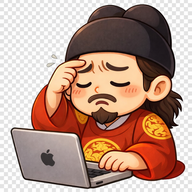
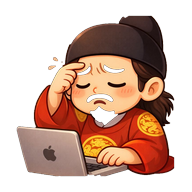
Add files via upload

diff --git a/index.html b/index.html
@@ -638,7 +638,7 @@
 <body>
 
 <div id="loading" class="loading">
-  <img src="king.png" alt="임금님" class="loading-img">
+  <img src="king_transparent.png" alt="임금님" class="loading-img">
   <p id="loadingText" class="loading-text"></p>
 </div>
 
@@ -648,7 +648,7 @@
 <div class="brand">
   <div class="brand-mark" aria-label="대표님 시그니처">
     <span class="mark-bracket">˗ˋˏ</span>
-    <img src="king.png" alt="대표님 캐릭터" class="mark-icon">
+    <img src="king_transparent.png" alt="대표님 캐릭터" class="mark-icon">
     <span class="mark-bracket">ˎˊ˗</span>
   </div>
   <div class="brand-text">
@@ -2267,7 +2267,7 @@ document.getElementById('weightInput').addEventListener('keydown', function(e) {
   activate('calc');
 })();
 </script>
-<div style="text-align:center; margin-top:8px;"><img src="king.png" style="width:120px; opacity:0.95;"/></div>
+<div style="text-align:center; margin-top:8px;"><img src="king_transparent.png" style="width:120px; opacity:0.95;"/></div>
 
 <script>
 const loadingMessages = [
